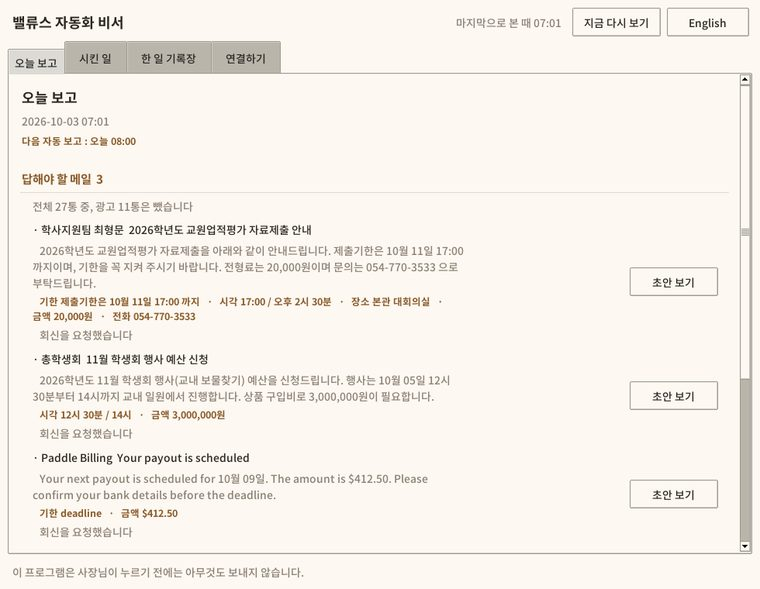
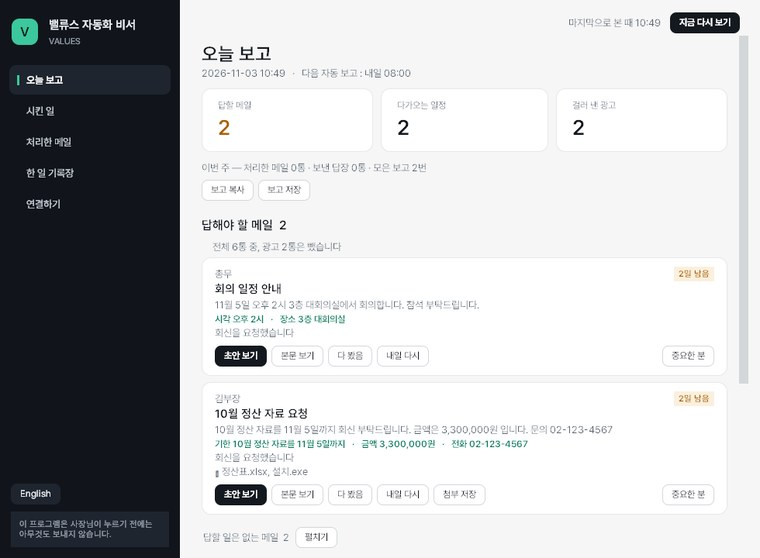
자동화 비서·AI 사무직원 2026-11-03 판 공개

diff --git a/download.html b/download.html
@@ -152,7 +152,10 @@ table.steps tr:last-child td{border-bottom:none}
 </div>
 
 <div class="card"><span class="tape" style="background:#BFD8B8"></span>
-<p class="step">밸류스 AI 사무직원 v3.4 — 표를 보고서로 자동 정리 · 영수증 사진 정리 · 증명서 발급 · 다국어 안내문</p>
+<p class="step">밸류스 AI 사무직원 (2026-11-03 판) — 명단 대조 · 표 합치기 · 표를 보고서로 정리 · 영수증 사진 정리 · 증명서 발급</p>
+<p style="margin:0 0 10px;font-size:13.5px;color:var(--ink2)">
+<b>이번 판에서 바뀐 것</b> — 시트가 여러 개인 출석부·명단도 <b>시트를 모두 읽어</b> 대조합니다(예전 판은 첫 시트만 읽었습니다).
+결과 표와 처리 내역을 <b>인터넷 창 없이 프로그램 창 안에서</b> 봅니다. 화면을 새로 만들었습니다.</p>
 <p style="margin:0 0 10px;font-size:13.5px;color:var(--ink2)">
 켜자마자 "어제 뭘 했고, 뭘 봐 주셔야 하는지"가 보입니다.
 파일은 창에 끌어다 놓으면 되고, 모르는 일은 오류가 아니라 질문으로 나옵니다.
@@ -161,29 +164,21 @@ table.steps tr:last-child td{border-bottom:none}
 <div class="dl main">
 <span class="em">📦</span>
 <span>
-<span class="nm">설치 프로그램</span> <span class="sz">약 318 MB</span><br>
+<span class="nm">설치 프로그램</span> <span class="sz">약 293 MB</span><br>
 <span class="de">보통은 이걸 받으세요. 시작메뉴와 바탕화면에 아이콘이 생깁니다.</span>
 </span>
 <span class="go"><a class="btn" id="dl1" href="#">받기</a></span>
 </div>
 <p class="hint" id="prog1"></p>
 
-<div class="dl">
-<span class="em">🗂</span>
-<span>
-<span class="nm">설치 없이 쓰는 판</span> <span class="sz">약 321 MB</span><br>
-<span class="de">회사 보안 정책으로 설치가 막힌 PC용. USB에 넣어 다녀도 됩니다.</span>
-</span>
-<span class="go"><a class="btn ghost" id="dl2" href="#">받기</a></span>
-</div>
-<p class="hint" id="prog2"></p>
+<p class="hint">설치 없이 쓰는 판은 새 판으로 다시 만드는 중이라 잠시 내려 두었습니다. 설치가 막힌 PC라면 메일로 알려 주세요.</p>
 
 <div class="msg bad" id="prep" style="display:none">
 설치파일을 올리는 중입니다. 잠시 뒤에 다시 들러 주시거나
 <a href="mailto:ranger7903@nate.com" style="color:inherit;font-weight:700">ranger7903@nate.com</a>
 으로 알려 주시면 바로 메일로 보내드릴게요.
 </div>
-<p class="hint">이번 판부터 5개 언어 번역 엔진이 함께 들어가면서 파일이 커졌습니다(예전 20MB대 → 지금 320MB대).
+<p class="hint">이번 판부터 5개 언어 번역 엔진이 함께 들어가면서 파일이 커졌습니다(예전 20MB대 → 지금 300MB 안팎).
 받기를 누르면 여러 조각으로 나눠 받은 뒤 자동으로 하나로 합치고, 합친 파일이 원본과 같은지 스스로 확인한 다음에만 내려받기가 시작됩니다. 시간이 조금 걸릴 수 있어요.</p>
 <p class="hint">설치 안내 화면은 5개 언어로 나옵니다. 프로그램 화면은 지금 한국어입니다.</p>
 <div class="langs"><span>한국어</span><span>English</span><span>中文</span><span>O'zbekcha</span><span>Tiếng Việt</span></div>
@@ -213,10 +208,10 @@ table.steps tr:last-child td{border-bottom:none}
 <table class="steps">
 <tr><td>1</td><td>설치 프로그램을 열면 <b>맨 처음 언어를 고르는 창</b>이 나옵니다. 관리자 권한은 필요 없습니다.</td></tr>
 <tr><td>2</td><td>바탕화면 아이콘 <b>밸류스 AI 사무직원</b> 을 두 번 누르면 <b>업무 현황판</b>이 열립니다.</td></tr>
-<tr><td>3</td><td>오른쪽 위 <b>[가르치기]</b> 를 눌러 우리 회사 규칙을 메모장에 적고 저장하세요. 한 번만 하면 됩니다.</td></tr>
+<tr><td>3</td><td><b>[가르치기]</b> 를 눌러 우리 회사 규칙을 메모장에 적고 저장하세요. 한 번만 하면 됩니다.</td></tr>
 <tr><td>4</td><td>처리할 파일을 <b>창에 끌어다 놓으면</b> 무슨 일인지 스스로 판단해서 처리합니다. 모르면 여쭙니다.</td></tr>
-<tr><td>5</td><td>끝나면 <b>✓ 끝냈습니다</b> 줄기에 확신도(%)와 함께 올라오고, 카드를 누르면 보고서가 열립니다.</td></tr>
-<tr><td>6</td><td>돈이 걸린 일은 <b>⚠ 봐 주셔야 합니다</b> 줄기에서 기다립니다. 원본 파일은 절대 바뀌지 않습니다.</td></tr>
+<tr><td>5</td><td>끝나면 <b>끝냈습니다</b> 칸에 확신도(%)와 함께 올라오고, 카드를 누르면 결과 표와 처리 내역이 프로그램 창 안에서 열립니다.</td></tr>
+<tr><td>6</td><td>돈이 걸린 일은 <b>봐 주셔야 합니다</b> 줄기에서 기다립니다. 원본 파일은 절대 바뀌지 않습니다.</td></tr>
 <tr><td>7</td><td>설정에서 <b>아침당번</b>을 켜면, 아침에 로그인만 해도 일감함의 일을 혼자 끝내고 보고를 남깁니다.</td></tr>
 </table>
 </div>
@@ -292,8 +287,7 @@ checkFiles();
 여기서 받아서 다시 하나로 합칩니다. 합친 뒤 sha256(지문)이 원본과 같은지 확인하고,
 같을 때만 실제로 컴퓨터에 저장합니다. */
 var DOWNLOADS = {
-dl1: { manifest: "https://raw.githubusercontent.com/ranger7903/ranger7903.github.io/dist/download/office_setup.manifest.json", partsDir: "https://raw.githubusercontent.com/ranger7903/ranger7903.github.io/dist/download/parts/", saveAs: "밸류스_AI사무직원_설치.exe", prog: "prog1" },
-dl2: { manifest: "https://raw.githubusercontent.com/ranger7903/ranger7903.github.io/dist/download/office.manifest.json", partsDir: "https://raw.githubusercontent.com/ranger7903/ranger7903.github.io/dist/download/parts/", saveAs: "밸류스_AI사무직원.exe", prog: "prog2" }
+dl1: { manifest: "https://raw.githubusercontent.com/ranger7903/ranger7903.github.io/dist/download/office_setup.manifest.json", partsDir: "https://raw.githubusercontent.com/ranger7903/ranger7903.github.io/dist/download/parts/", saveAs: "밸류스_AI사무직원_설치.exe", prog: "prog1" }
 };
 
 function hex(buf){
@@ -312,8 +306,8 @@ throw err;
 }
 function setProg(id, text){ var el = document.getElementById(id); if (el) el.textContent = text; }
 
-/* 2026-11-02 새 판 재검증이 끝날 때까지 받기를 멈춘다. 다시 열려면 false 로 바꾼다. */
-var OFFICE_HOLD = true;
+/* 2026-11-02 새 판 재검증이 끝날 때까지 받기를 멈췄다. 2026-11-03 판 검증 뒤 다시 연다. 멈추려면 true 로 바꾼다. */
+var OFFICE_HOLD = false;
 
 function assembleDownload(btnId){
 if (OFFICE_HOLD) return;
